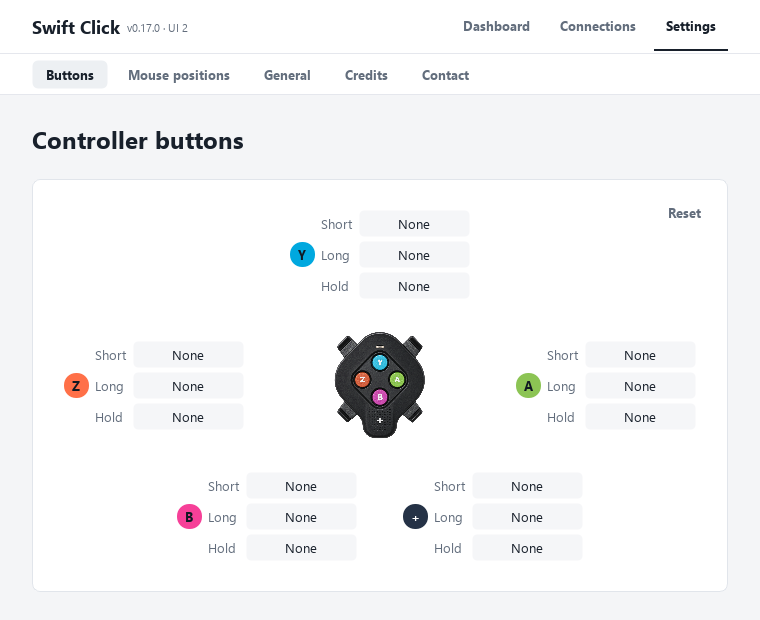
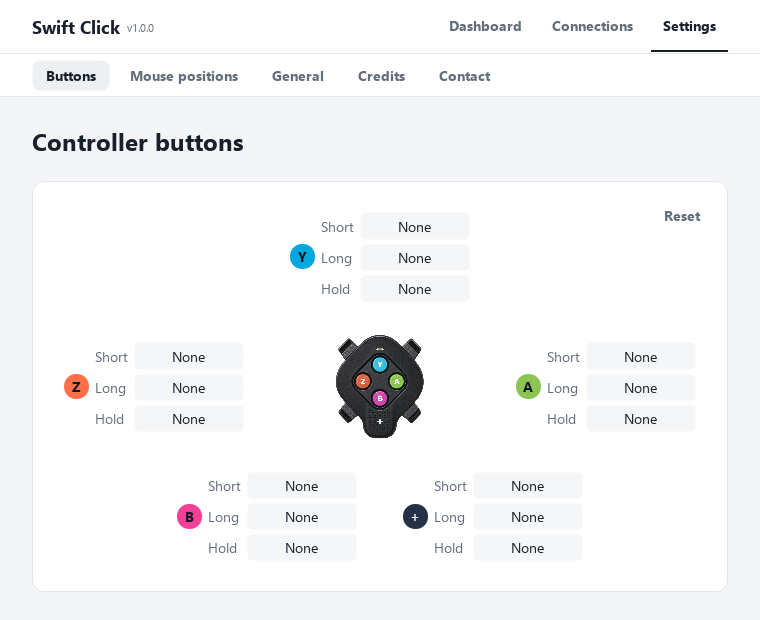
Prepare 1.0 UI with native-resolution rendering and flag language buttons

diff --git a/ui/desktop_ui.py b/ui/desktop_ui.py
@@ -24,7 +24,7 @@ from PySide6.QtWidgets import (
 )
 from settings import ACTIONS, ASSIGNABLE, REPEATABLE, action_id
 from ui_controls import KeyboardButton, ToggleSwitch, SelectionList
-from i18n import tr
+from i18n import tr, language
 
 ACTION_GROUPS = {
     "MyWhoosh": ("shift_up", "shift_down"),
@@ -33,7 +33,6 @@ ACTION_GROUPS = {
     "Video": ("seek_back", "seek_forward"),
     "Mouse": ("mouse_click", "mouse_position"),
 }
-from i18n import tr
 
 COLORS = {
     "y": "#00a8df",
@@ -43,7 +42,7 @@ COLORS = {
     "plus": "#253246",
 }
 STYLE = """
-QWidget { color:#18202b; font-family:'Segoe UI'; font-size:13px; }
+QWidget { color:#18202b; font-family:'Segoe UI'; font-size:14px; }
 QMainWindow, QWidget#shell, QWidget#page { background:#f4f5f7; }
 QFrame#header { background:white; border-bottom:1px solid #e5e7ed; }
 QPushButton#assignment { background:#f5f6f8; border:1px solid transparent; border-radius:5px; padding:4px 7px; font-weight:500; }
@@ -56,10 +55,10 @@ QPushButton#category:hover { background:#edf0f4; border-color:#b8c2ce; }
 QLabel#brand { font-size:18px; font-weight:700; }
 QLabel#title { font-size:24px; font-weight:700; }
 QLabel#muted { color:#626d7c; }
-QFrame#card { background:white; border:1px solid #e1e5eb; border-radius:8px; }
+QFrame#card { background:white; border:1px solid #e1e5eb; border-radius:12px; }
 QFrame#binding { background:transparent; border:1px solid transparent; border-radius:6px; }
 QFrame#binding[selected="true"] { background:#edf6f2; border-color:#86b6a5; }
-QPushButton { background:white; border:1px solid #dfe3e9; border-radius:6px; padding:8px 16px; font-weight:600; }
+QPushButton { background:white; border:1px solid #dfe3e9; border-radius:8px; padding:8px 16px; font-weight:600; }
 QPushButton:hover { background:#f1f3f8; border-color:#c0c8d7; }
 QPushButton:pressed { background:#e7ebf3; }
 QPushButton#primary { background:#202632; color:white; border:1px solid #202632; }
@@ -124,16 +123,7 @@ def card():
 
 
 def logo(size=64):
-    widget = QLabel()
-    pix = QPixmap(str(Path(__file__).with_name("assets") / "mywhoosh.png"))
-    widget.setPixmap(
-        pix.scaled(
-            size,
-            size,
-            Qt.AspectRatioMode.KeepAspectRatio,
-            Qt.TransformationMode.SmoothTransformation,
-        )
-    )
+    widget = ControllerImage("mywhoosh.png", "MyWhoosh")
     widget.setFixedSize(size, size)
     return widget
 
@@ -172,10 +162,10 @@ class AssignmentButton(KeyboardButton):
 
 
 class ControllerImage(QWidget):
-    def __init__(self):
+    def __init__(self, source="click-right.png", accessible_name="Right-hand Zwift Click V2 controller"):
         super().__init__()
-        self.image = QPixmap(str(Path(__file__).with_name("assets") / "click-right.png"))
-        self.setAccessibleName("Right-hand Zwift Click V2 controller")
+        self.image = QPixmap(str(Path(__file__).with_name("assets") / source))
+        self.setAccessibleName(accessible_name)
 
     def paintEvent(self, event):
         if self.image.isNull():
@@ -228,13 +218,14 @@ class ControllerEditor(QWidget):
         choice_box.setContentsMargins(18, 16, 18, 16)
         choice_box.setSpacing(10)
         self.choice_title = label("", size=18)
+        self.choice_title.setProperty("i18nUserText", True)
         choice_box.addWidget(self.choice_title)
         self.current_assignment = label("","muted")
+        self.current_assignment.setProperty("i18nUserText",True)
         choice_box.addWidget(self.current_assignment)
         self.back_to_actions = push("Action types",self.show_actions)
         self.back_to_actions.setObjectName("quiet")
         self.back_to_actions.hide()
-        choice_box.addWidget(self.back_to_actions,alignment=Qt.AlignmentFlag.AlignLeft)
         self.pick_pages = QStackedWidget()
         choice_box.addWidget(self.pick_pages)
         categories = QWidget()
@@ -262,6 +253,8 @@ class ControllerEditor(QWidget):
         self.options = QButtonGroup(self)
         self.option_cells = {}
         self.usage_labels = {}
+        self.rendered_language = None
+        self.active_group = None
         for index, action in enumerate(ASSIGNABLE):
             option = KeyboardButton(ACTIONS[action][1])
             option.setObjectName("choice")
@@ -279,6 +272,7 @@ class ControllerEditor(QWidget):
                 cell_box.setSpacing(6)
                 cell_box.addWidget(option)
                 used = label("","muted")
+                used.setProperty("i18nUserText",True)
                 used.setStyleSheet("font-size:12px")
                 cell_box.addWidget(used)
                 self.usage_labels[action] = used
@@ -301,12 +295,12 @@ class ControllerEditor(QWidget):
         self.add_position = push("Create a position", self.create_position)
         self.add_position.setObjectName("quiet")
         positions_box.addWidget(self.add_position,alignment=Qt.AlignmentFlag.AlignLeft)
-        self.pending_label = label("","muted")
-        choice_box.addWidget(self.pending_label)
         controls = QHBoxLayout()
+        controls.addWidget(self.back_to_actions)
         controls.addWidget(push("Cancel",self.end_edit))
         controls.addStretch()
         self.save_button = push("Save",self.save_action,True)
+        self.save_button.setProperty("i18nUserTooltip",True)
         controls.addWidget(self.save_button)
         choice_box.addLayout(controls)
         choice_box.addStretch()
@@ -320,7 +314,7 @@ class ControllerEditor(QWidget):
     def edit_action(self, field):
         self.field = field
         self.pending = copy.deepcopy(field.action)
-        self.choice_title.setText(field.caption)
+        self.choice_title.setText(tr(field.caption))
         self.current_assignment.setText(tr("Current action: {action}").format(action=self.binding_text(field.action)))
         self.refresh_usage()
         self.show_actions()
@@ -338,8 +332,10 @@ class ControllerEditor(QWidget):
         self.pick_pages.setCurrentIndex(0)
         self.back_to_actions.hide()
         self.update_pending()
+        self.fit_stage()
 
     def show_group(self, group):
+        self.active_group = group
         self.choices_frame.setMinimumWidth(540)
         self.choices_frame.setMaximumWidth(640)
         self.refresh_usage()
@@ -354,6 +350,15 @@ class ControllerEditor(QWidget):
             cell.show()
         self.pick_pages.setCurrentIndex(1)
         self.back_to_actions.show()
+        self.fit_stage()
+
+    def fit_stage(self):
+        page = self.pick_pages.currentWidget()
+        if page.layout():
+            page.layout().invalidate()
+            page.layout().activate()
+        self.pick_pages.setFixedHeight(page.sizeHint().height())
+        self.choices_frame.updateGeometry()
 
     def binding_text(self, binding):
         if binding is None:
@@ -385,6 +390,11 @@ class ControllerEditor(QWidget):
         return tr("Used by {gestures}").format(gestures=summary)
 
     def refresh_usage(self):
+        self.rendered_language = language()
+        self.choice_title.setText(tr(self.field.caption))
+        self.current_assignment.setText(tr("Current action: {action}").format(action=self.binding_text(self.field.action)))
+        if self.active_group:
+            self.group_title.setText(tr(self.active_group))
         for action, used in self.usage_labels.items():
             used.setText(self.usage_text(action))
             used.setToolTip(", ".join(self.uses(action)))
@@ -395,8 +405,7 @@ class ControllerEditor(QWidget):
 
     def update_pending(self):
         self.save_button.setEnabled(self.pending is not None)
-        self.pending_label.setText(tr("Selected action: {action}").format(action=self.binding_text(self.pending)))
-        self.pending_label.setVisible(self.pending != self.field.action)
+        self.save_button.setToolTip(self.binding_text(self.pending))
 
     def apply_choice(self, option):
         action = option.property("action")
@@ -426,12 +435,13 @@ class ControllerEditor(QWidget):
         rows = sum(self.position_choices.sizeHintForRow(i) for i in range(min(2,count)))
         self.position_choices.setFixedHeight(max(1,rows+2*self.position_choices.frameWidth()))
         self.position_choices.setVisible(count > 0)
-        self.position_hint.setText("Choose a saved screen point for this gesture." if count else "Create a screen point to use for this gesture.")
+        self.position_hint.setText("Select a saved position." if count else "No saved positions. Create one below.")
         self.position_hint.show()
         self.pick_pages.setCurrentIndex(2)
         self.back_to_actions.show()
         self.add_position.show()
         self.update_pending()
+        self.fit_stage()
 
     def apply_position(self, item, _previous=None):
         if item is not None:
@@ -545,7 +555,7 @@ def build_ui(w):
     nav = QHBoxLayout(header)
     nav.setContentsMargins(32, 0, 32, 0)
     nav.addWidget(label("Swift Click", "brand"))
-    w.version_label = label(f"v{w.app_version} · UI {w.ui_revision}","muted")
+    w.version_label = label(f"v{w.app_version}","muted")
     w.version_label.setWordWrap(False)
     w.version_label.setStyleSheet("font-size:11px")
     nav.addWidget(w.version_label)
@@ -788,6 +798,11 @@ def refresh_ui(w):
             field.setStyleSheet(f"color:{color};font-weight:600")
             field.setProperty("statusColor", color)
     w.editor.set_pressed(status["pressed"])
+    if w.editor.settings.currentIndex() == 1 and w.editor.rendered_language != language():
+        w.editor.refresh_usage()
+        w.editor.update_pending()
+        if w.editor.pick_pages.currentIndex() == 2:
+            w.editor.show_positions()
     w.received_buttons.setVisible(status["connected"] and bool(status["pressed"] or status["last_pressed"]))
     if status["connected"]:
         if status["pressed"]:

diff --git a/ui/language_picker.py b/ui/language_picker.py
@@ -1,0 +1,89 @@
+"""Accessible language buttons with flags painted at the display's native DPI."""
+from PySide6.QtCore import Qt, Signal, QRectF, QLineF
+from PySide6.QtGui import QPainter, QPainterPath, QColor, QPen
+from PySide6.QtWidgets import QWidget, QHBoxLayout, QButtonGroup
+
+from ui_controls import KeyboardButton
+from i18n import LANGUAGES
+
+
+class FlagButton(KeyboardButton):
+    def __init__(self, code, name):
+        super().__init__(name)
+        self.code = code
+        self.setCheckable(True)
+        self.setObjectName("languageChoice")
+        self.setAccessibleName(name)
+        self.setCursor(Qt.CursorShape.PointingHandCursor)
+        self.setMinimumHeight(66)
+        self.setStyleSheet("""
+            QPushButton#languageChoice { text-align:left; padding:12px 16px 12px 76px;
+                border-radius:12px; background:#f7f9fc; border:1px solid #dfe5ec; }
+            QPushButton#languageChoice:hover { background:#edf3f7; border-color:#9aaabd; }
+            QPushButton#languageChoice:checked { background:#e7f3ed; border:2px solid #287e68; }
+            QPushButton#languageChoice:focus { border-color:#287e68; }
+        """)
+
+    def paintEvent(self, event):
+        super().paintEvent(event)
+        painter = QPainter(self)
+        painter.setRenderHint(QPainter.RenderHint.Antialiasing)
+        rect = QRectF(18, (self.height() - 28) / 2, 42, 28)
+        clip = QPainterPath()
+        clip.addRoundedRect(rect, 3, 3)
+        painter.save()
+        painter.setClipPath(clip)
+        if self.code == "fr":
+            for index, color in enumerate(("#0055a4", "#ffffff", "#ef4135")):
+                painter.fillRect(QRectF(rect.x() + index*14, rect.y(), 14, rect.height()), QColor(color))
+        else:
+            painter.fillRect(rect, QColor("#012169"))
+            for color, width in (("#ffffff", 7), ("#c8102e", 3)):
+                painter.setPen(QPen(QColor(color), width))
+                painter.drawLine(rect.topLeft(), rect.bottomRight())
+                painter.drawLine(rect.bottomLeft(), rect.topRight())
+            for color, width in (("#ffffff", 10), ("#c8102e", 6)):
+                painter.setPen(QPen(QColor(color), width))
+                painter.drawLine(QLineF(rect.center().x(), rect.top(), rect.center().x(), rect.bottom()))
+                painter.drawLine(QLineF(rect.left(), rect.center().y(), rect.right(), rect.center().y()))
+        painter.restore()
+        painter.setPen(QPen(QColor("#cbd4df"), 1))
+        painter.setBrush(Qt.BrushStyle.NoBrush)
+        painter.drawRoundedRect(rect, 3, 3)
+
+
+class LanguagePicker(QWidget):
+    currentIndexChanged = Signal(int)
+
+    def __init__(self):
+        super().__init__()
+        self.codes = tuple(LANGUAGES)
+        self._index = -1
+        self.buttons = {}
+        self.group = QButtonGroup(self)
+        layout = QHBoxLayout(self)
+        layout.setContentsMargins(0, 0, 0, 0)
+        layout.setSpacing(12)
+        for index, (code, name) in enumerate(LANGUAGES.items()):
+            button = FlagButton(code, name)
+            self.buttons[code] = button
+            self.group.addButton(button, index)
+            layout.addWidget(button, 1)
+        self.group.idClicked.connect(self.setCurrentIndex)
+        self.setCurrentIndex(0)
+
+    def findData(self, code):
+        return self.codes.index(code) if code in self.codes else -1
+
+    def currentData(self):
+        return self.codes[self._index]
+
+    def currentIndex(self):
+        return self._index
+
+    def setCurrentIndex(self, index):
+        if not 0 <= index < len(self.codes) or index == self._index:
+            return
+        self._index = index
+        self.group.button(index).setChecked(True)
+        self.currentIndexChanged.emit(index)

diff --git a/ui/about_view.py b/ui/about_view.py
@@ -7,9 +7,9 @@ from urllib.parse import quote
 
 from PySide6.QtCore import QUrl
 from PySide6.QtGui import QDesktopServices
-from PySide6.QtWidgets import QComboBox
+from language_picker import LanguagePicker
 
-from i18n import LANGUAGES, language
+from i18n import language
 
 
 def metadata():
@@ -32,10 +32,8 @@ def build_about_pages(w):
     surface, content = card()
     box.addWidget(surface)
     content.addWidget(label("Language", size=18))
-    w.language_select = QComboBox()
+    w.language_select = LanguagePicker()
     w.language_select.setAccessibleName("Language")
-    for code, name in LANGUAGES.items():
-        w.language_select.addItem(name, code)
     w.language_select.setCurrentIndex(w.language_select.findData(language()))
     w.language_select.currentIndexChanged.connect(lambda _: w.change_language(w.language_select.currentData()))
     content.addWidget(w.language_select)

diff --git a/docs/COMPATIBILITY.md b/docs/COMPATIBILITY.md
@@ -1,6 +1,6 @@
-# Compatibility and beta status
+# Compatibility and 1.0.0 release-candidate status
 
-| Component | Initial beta |
+| Component | Windows release candidate |
 | --- | --- |
 | Operating system | Windows 11 x64, Intel or AMD |
 | Controller | Zwift Click V2 right, tested firmware 1.2.0 |
@@ -12,9 +12,11 @@
 | macOS / Windows ARM | Not qualified |
 | Browser extension | Not used |
 
-Controller connection, media commands and MyWhoosh shifting have been tested on the development PC. Installer launch, upgrade with the app running, settings preservation and uninstall have been tested in an isolated installation on that PC. These tests do not establish compatibility with every Windows PC.
+The development PC has been used to test media commands and MyWhoosh shifting. For 1.0.0, a real right controller with firmware 1.2.0 transmitted all five buttons and disconnected cleanly in a read-only test. A native named mouse click reached a local test button once on each of two real displays at 125% and 100% scaling, with the pointer restored after each click. These tests do not establish compatibility with every Windows PC.
 
-Clean-PC installation, physical multi-display configurations with different scaling, real YouTube/Netflix mouse targets and two 90-minute controller sessions remain part of beta qualification. Video seeking depends on the player, its focus and shortcuts. A named mouse target must be repositioned when the target window moves or the display configuration changes.
+The UI was rendered and checked at simulated 100%, 125%, 150% and 200% scaling in both languages, at minimum and default window sizes. The installer checks include executable manifest validation and live Per-Monitor V2 window awareness.
+
+Clean-PC installation, physical negative-coordinate/disconnected-monitor scenarios, real YouTube/Netflix mouse targets and two 90-minute controller sessions remain part of qualification. Video seeking depends on the player, its focus and shortcuts. A named mouse target must be repositioned when the target window moves or the display configuration changes.
 
 The optional keep-awake method uses the controller's firmware-update mechanism. It is restricted to the tested hardware/firmware and explicit consent. Long-term effects have not been qualified. Normal app closure attempts to exit this mode before shutdown.
 

diff --git a/README.md b/README.md
@@ -33,18 +33,20 @@ Base already removes the daily button-action limit. Pro is not required simply t
 - Control Windows volume, play/pause and previous/next tracks.
 - Send left/right arrow presses to the active video player.
 - Click at the current pointer position or at named points saved on your displays.
-- Switch between English and French under **Settings → General**, without restarting connections.
+- Switch between English and French with the flag buttons under **Settings → General**, without restarting connections.
 - View credits, third-party license notices and feedback links under **Settings → Credits / Contact**.
 
 No browser extension, Swift Click account or telemetry is required. Browser video controls depend on the active player and its keyboard focus. Named clicks require the target window to remain in the saved position.
 
 ![Swift Click English interface with the five button assignments around the right controller](docs/images/controller-buttons.png)
 
+![Flag buttons for English and French](docs/images/languages.png)
+
 ## Download and install
 
 Open **Releases** and download the file ending in **Setup.exe**, not GitHub's automatic source ZIP. Run the installer, then open Swift Click from the Start menu. Python is included. Windows 11 x64 and Bluetooth are required.
 
-Initial releases are unsigned betas. Windows security settings may warn about or block them. Check the release notes and SHA-256 checksum. Full ride endurance testing and installation on clean PCs remain in progress. macOS is not available yet.
+The 1.0.0 package is an unsigned release candidate. Windows security settings may warn about or block it. Check the release notes and SHA-256 checksum. Full ride endurance testing and installation on clean PCs remain in progress. macOS is not available yet.
 
 Updates use the same installer and preserve settings, except for the one-time 0.15 button-mapping reset described in the installation guide. Updates are downloaded and installed manually. There is no automatic updater in this release.
 
